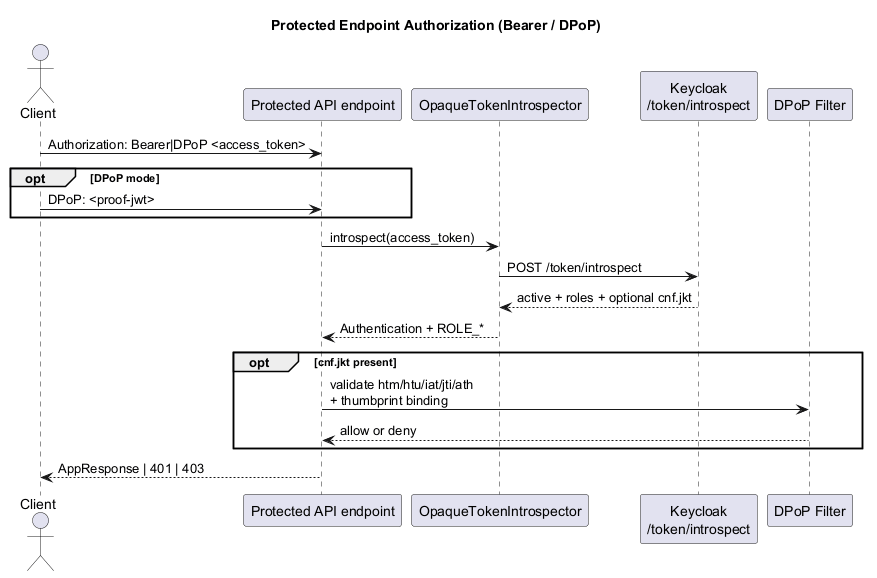
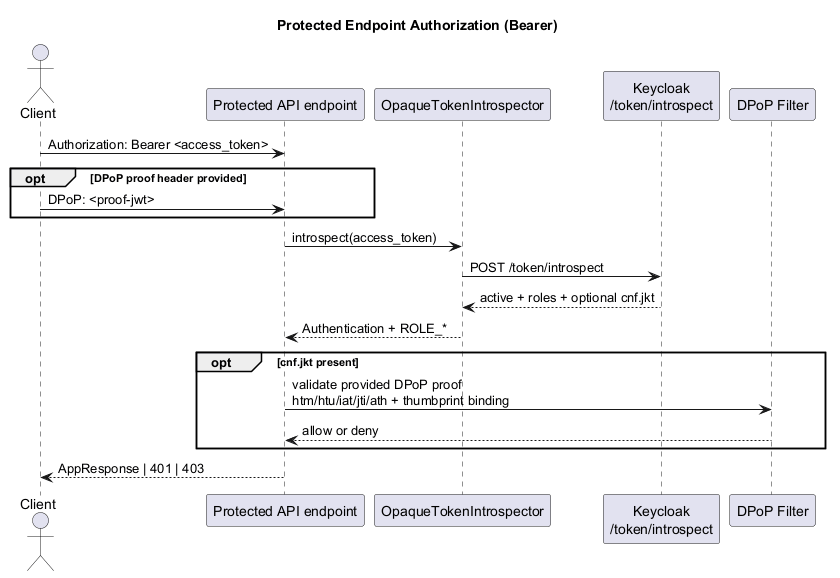
docs: align protected auth diagram with implemented flow

diff --git a/README.md b/README.md
@@ -331,7 +331,7 @@ This ensures a clear separation of responsibilities:
 
 ![Authentication sequence](docs/diagrams/sequence-auth-lifecycle.png)
 
-## 📊 Protected Endpoint Authorization (Bearer / DPoP)
+## 📊 Protected Endpoint Authorization (Bearer)
 
 ![Protected authorization sequence](docs/diagrams/sequence-protected-authorization.png)
 

diff --git a/docs/architecture.md b/docs/architecture.md
@@ -14,7 +14,7 @@ Source: `docs/diagrams/system-context.puml`
 
 Source: `docs/diagrams/sequence-auth-lifecycle.puml`
 
-## Sequence: Protected endpoint authorization (Bearer / DPoP)
+## Sequence: Protected endpoint authorization (Bearer)
 
 ![Protected authorization sequence](./diagrams/sequence-protected-authorization.png)
 
